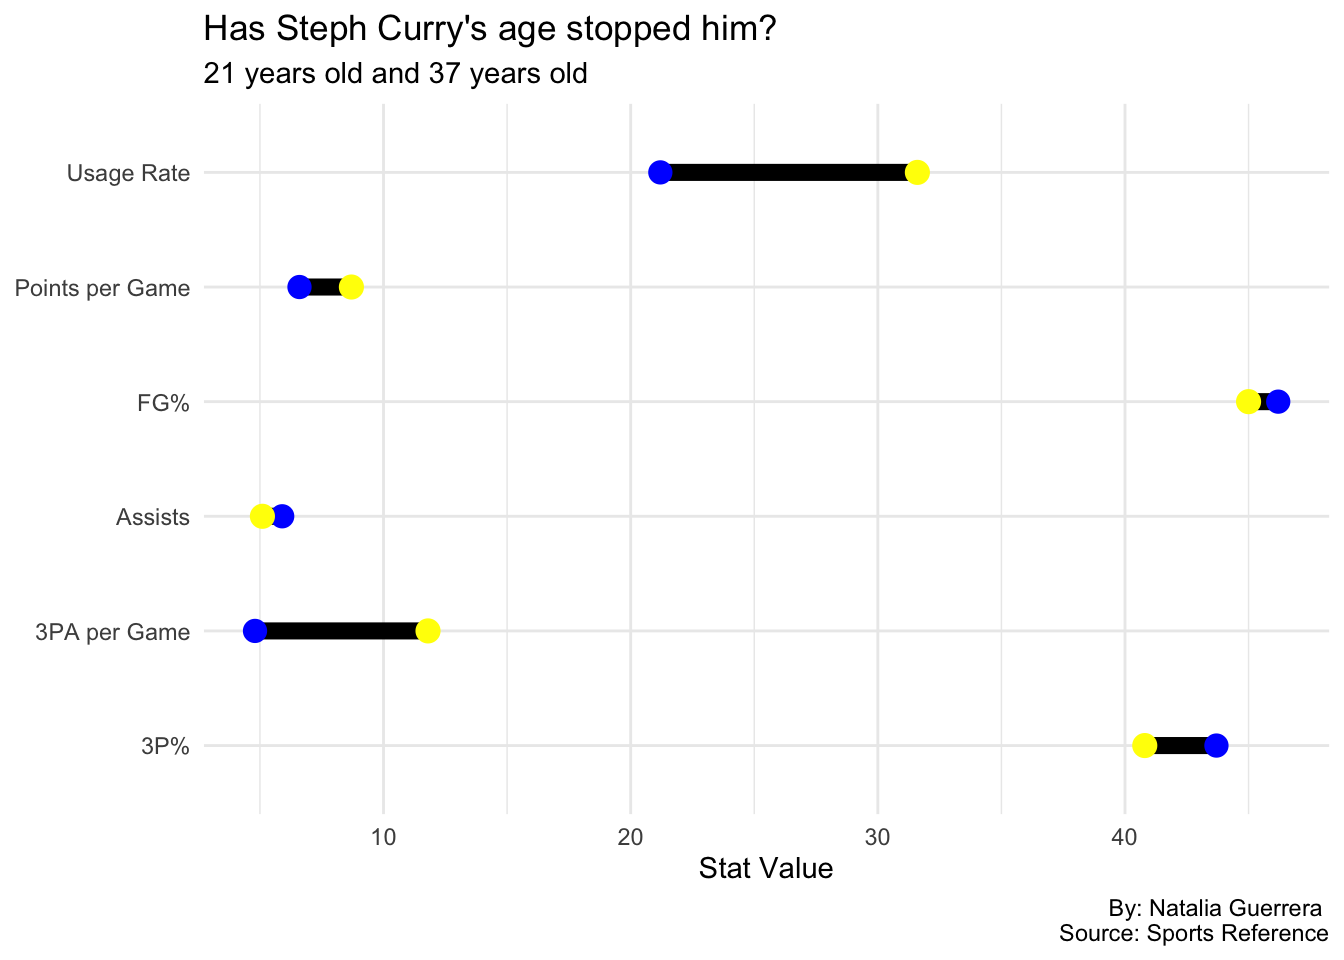
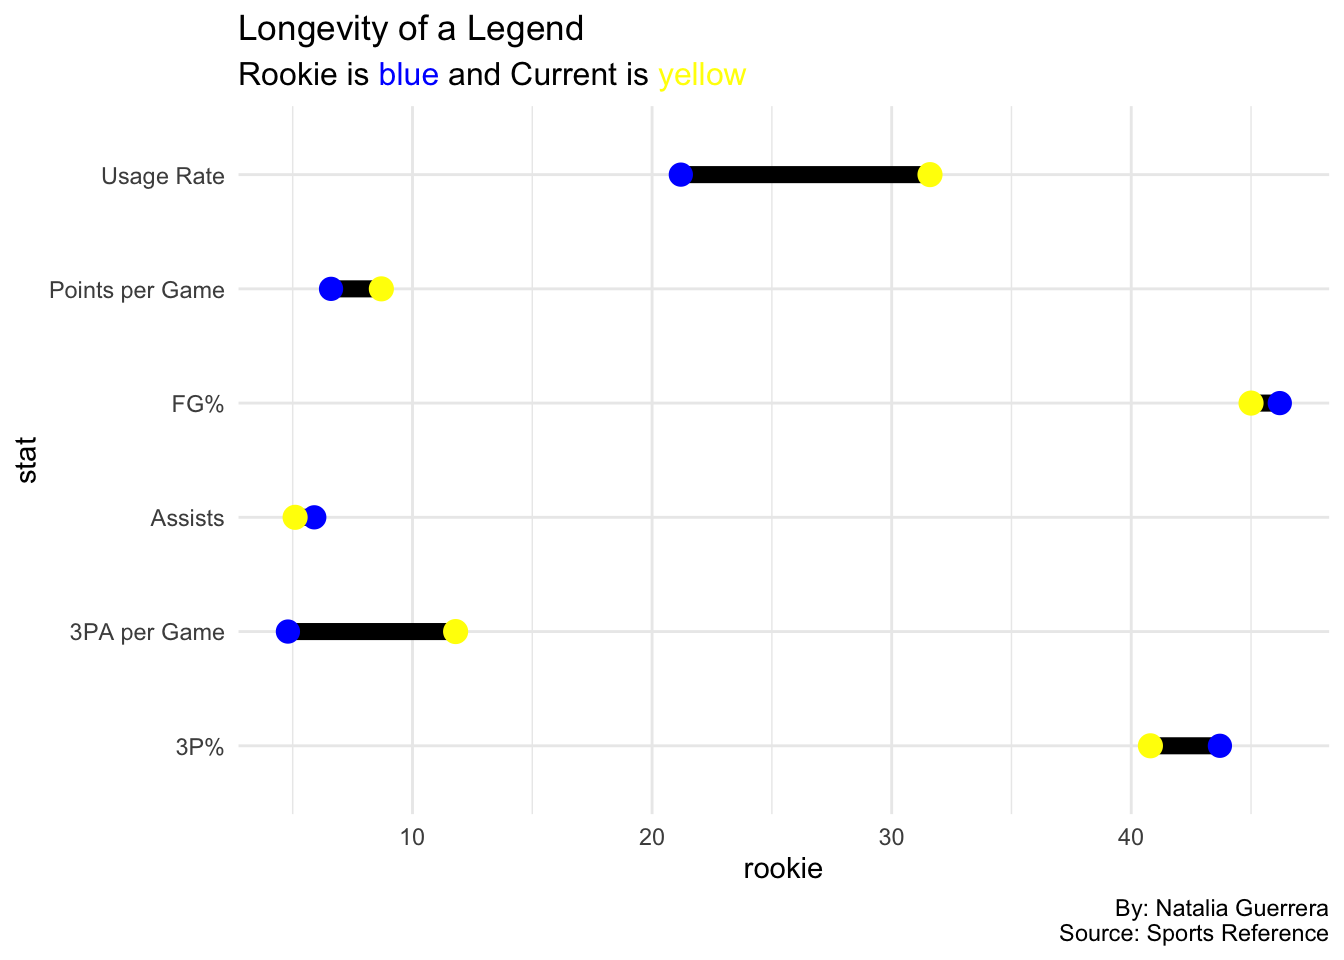
made changes

diff --git a/posts/nfl-nba-combine-athlete/index.html b/posts/nfl-nba-combine-athlete/index.html
@@ -9,7 +9,7 @@
 <meta name="author" content="Natalia Guerrera">
 <meta name="dcterms.date" content="2025-04-13">
 
-<title>How has Steph Curry playing style evolved as he’s aged? – Natalia's Sports Blog</title>
+<title>How much has Stephen Curry’s playing changed as he has aged? – Natalia's Sports Blog</title>
 <style>
 code{white-space: pre-wrap;}
 span.smallcaps{font-variant: small-caps;}
@@ -149,7 +149,7 @@ pre > code.sourceCode > span > a:first-child::before { text-decoration: underlin
 <header id="title-block-header" class="quarto-title-block default page-columns page-full">
   <div class="quarto-title-banner page-columns page-full">
     <div class="quarto-title column-body">
-      <h1 class="title">How has Steph Curry playing style evolved as he’s aged?</h1>
+      <h1 class="title">How much has Stephen Curry’s playing changed as he has aged?</h1>
                                 <div class="quarto-categories">
                 <div class="quarto-category">nba</div>
                 <div class="quarto-category">warriors</div>
@@ -190,7 +190,7 @@ pre > code.sourceCode > span > a:first-child::before { text-decoration: underlin
 
 
 
-<p>Steph Curry has not changed due to his age. Steph Curry is the best.</p>
+<p>Stephen Curry became unstoppable and famous at Davidson College after leading the team in a Cinderella run to the Elite Eight in 2008. After being drafted 7th overall by the Golden State Warriors in 2009, then he ended up transforming the game with his deep shooting and ball handling movements. Curry is a 3-time NBA Champion and 2-time MVP making him the first unanimous MVP in league history. He has become the name and face of the Warriors more than a decade into his career. As he has aged 16 years the question remains, is he still playing at an elite level showing longevity?</p>
 <div class="cell">
 <details class="code-fold">
 <summary>Code</summary>
@@ -205,17 +205,19 @@ pre > code.sourceCode > span > a:first-child::before { text-decoration: underlin
 <span id="cb1-9"><a href="#cb1-9" aria-hidden="true" tabindex="-1"></a>)</span>
 <span id="cb1-10"><a href="#cb1-10" aria-hidden="true" tabindex="-1"></a></span>
 <span id="cb1-11"><a href="#cb1-11" aria-hidden="true" tabindex="-1"></a><span class="fu">ggplot</span>(rookie, <span class="fu">aes</span>(<span class="at">x =</span> rookie, <span class="at">xend =</span> current, <span class="at">y =</span> stat)) <span class="sc">+</span></span>
-<span id="cb1-12"><a href="#cb1-12" aria-hidden="true" tabindex="-1"></a>  <span class="fu">geom_dumbbell</span>(<span class="at">color =</span> <span class="st">"black"</span>, </span>
+<span id="cb1-12"><a href="#cb1-12" aria-hidden="true" tabindex="-1"></a>  <span class="fu">geom_dumbbell</span>(<span class="at">color =</span> <span class="st">"black"</span>,</span>
 <span id="cb1-13"><a href="#cb1-13" aria-hidden="true" tabindex="-1"></a>                <span class="at">size =</span> <span class="dv">3</span>,</span>
-<span id="cb1-14"><a href="#cb1-14" aria-hidden="true" tabindex="-1"></a>                <span class="at">colour_x =</span> <span class="st">"blue"</span>,  </span>
-<span id="cb1-15"><a href="#cb1-15" aria-hidden="true" tabindex="-1"></a>                <span class="at">colour_xend =</span> <span class="st">"yellow"</span>) <span class="sc">+</span>  </span>
-<span id="cb1-16"><a href="#cb1-16" aria-hidden="true" tabindex="-1"></a>  <span class="fu">labs</span>(<span class="at">title =</span> <span class="st">"Has Steph Curry's age stopped him?"</span>,</span>
-<span id="cb1-17"><a href="#cb1-17" aria-hidden="true" tabindex="-1"></a>       <span class="at">subtitle =</span> <span class="st">"21 years old and 37 years old"</span>,</span>
-<span id="cb1-18"><a href="#cb1-18" aria-hidden="true" tabindex="-1"></a>       <span class="at">x =</span> <span class="st">"Stat Value"</span>,</span>
-<span id="cb1-19"><a href="#cb1-19" aria-hidden="true" tabindex="-1"></a>       <span class="at">y =</span> <span class="cn">NULL</span>,</span>
-<span id="cb1-20"><a href="#cb1-20" aria-hidden="true" tabindex="-1"></a>       <span class="at">caption =</span> <span class="st">"By: Natalia Guerrera </span></span>
-<span id="cb1-21"><a href="#cb1-21" aria-hidden="true" tabindex="-1"></a><span class="st">       Source: Sports Reference"</span>) <span class="sc">+</span></span>
-<span id="cb1-22"><a href="#cb1-22" aria-hidden="true" tabindex="-1"></a>  <span class="fu">theme_minimal</span>()</span></code><button title="Copy to Clipboard" class="code-copy-button"><i class="bi"></i></button></pre></div>
+<span id="cb1-14"><a href="#cb1-14" aria-hidden="true" tabindex="-1"></a>                <span class="at">colour_x =</span> <span class="st">"blue"</span>,</span>
+<span id="cb1-15"><a href="#cb1-15" aria-hidden="true" tabindex="-1"></a>                <span class="at">colour_xend =</span> <span class="st">"yellow"</span>) <span class="sc">+</span></span>
+<span id="cb1-16"><a href="#cb1-16" aria-hidden="true" tabindex="-1"></a>  <span class="fu">labs</span>(</span>
+<span id="cb1-17"><a href="#cb1-17" aria-hidden="true" tabindex="-1"></a>    <span class="at">title =</span> <span class="st">"Longevity of a Legend"</span>,</span>
+<span id="cb1-18"><a href="#cb1-18" aria-hidden="true" tabindex="-1"></a>    <span class="at">subtitle =</span> <span class="st">"Rookie is &lt;span style='color:blue;'&gt;blue&lt;/span&gt; and Current is &lt;span style='color:yellow;'&gt;yellow&lt;/span&gt; "</span>,</span>
+<span id="cb1-19"><a href="#cb1-19" aria-hidden="true" tabindex="-1"></a>    <span class="at">caption =</span> <span class="st">"By: Natalia Guerrera</span><span class="sc">\n</span><span class="st">Source: Sports Reference"</span></span>
+<span id="cb1-20"><a href="#cb1-20" aria-hidden="true" tabindex="-1"></a>  ) <span class="sc">+</span></span>
+<span id="cb1-21"><a href="#cb1-21" aria-hidden="true" tabindex="-1"></a>  <span class="fu">theme_minimal</span>() <span class="sc">+</span></span>
+<span id="cb1-22"><a href="#cb1-22" aria-hidden="true" tabindex="-1"></a>  <span class="fu">theme</span>(</span>
+<span id="cb1-23"><a href="#cb1-23" aria-hidden="true" tabindex="-1"></a>    <span class="at">plot.subtitle =</span> <span class="fu">element_markdown</span>(<span class="at">size =</span> <span class="dv">12</span>)   </span>
+<span id="cb1-24"><a href="#cb1-24" aria-hidden="true" tabindex="-1"></a>  )</span></code><button title="Copy to Clipboard" class="code-copy-button"><i class="bi"></i></button></pre></div>
 </details>
 <div class="cell-output-display">
 <div>
@@ -225,6 +227,7 @@ pre > code.sourceCode > span > a:first-child::before { text-decoration: underlin
 </div>
 </div>
 </div>
+<p>At 21, we see his scoring and passing ability are clear indicators of the impact he was going to have in the future. As he reached 37 his usage rate remains high, the way he impacts the game shifts. He maintains his scoring, his three-point attempts have increased significantly and he is still extremely accurate. We see Curry’s adaptation which further has extended his prime.</p>
 <div class="cell">
 <details class="code-fold">
 <summary>Code</summary>
@@ -239,14 +242,23 @@ pre > code.sourceCode > span > a:first-child::before { text-decoration: underlin
 <span id="cb2-9"><a href="#cb2-9" aria-hidden="true" tabindex="-1"></a></span>
 <span id="cb2-10"><a href="#cb2-10" aria-hidden="true" tabindex="-1"></a>rookie_waffle <span class="ot">&lt;-</span> <span class="fu">waffle</span>(rookie, <span class="at">rows =</span> <span class="dv">10</span>, </span>
 <span id="cb2-11"><a href="#cb2-11" aria-hidden="true" tabindex="-1"></a>                        <span class="at">colors =</span> <span class="fu">c</span>(<span class="st">"red"</span>, <span class="st">"orange"</span>, <span class="st">"darkgreen"</span>),</span>
-<span id="cb2-12"><a href="#cb2-12" aria-hidden="true" tabindex="-1"></a>                        <span class="at">title =</span> <span class="st">"Rookie Season (2009–10)"</span>)</span>
+<span id="cb2-12"><a href="#cb2-12" aria-hidden="true" tabindex="-1"></a>                        <span class="at">title =</span> <span class="st">"Young Sharpshooter"</span>)</span>
 <span id="cb2-13"><a href="#cb2-13" aria-hidden="true" tabindex="-1"></a></span>
 <span id="cb2-14"><a href="#cb2-14" aria-hidden="true" tabindex="-1"></a>current_waffle <span class="ot">&lt;-</span> <span class="fu">waffle</span>(current, <span class="at">rows =</span> <span class="dv">10</span>, </span>
 <span id="cb2-15"><a href="#cb2-15" aria-hidden="true" tabindex="-1"></a>                         <span class="at">colors =</span> <span class="fu">c</span>(<span class="st">"red"</span>, <span class="st">"orange"</span>, <span class="st">"darkgreen"</span>),</span>
-<span id="cb2-16"><a href="#cb2-16" aria-hidden="true" tabindex="-1"></a>                         <span class="at">title =</span> <span class="st">"2023–24 Season"</span>)</span>
-<span id="cb2-17"><a href="#cb2-17" aria-hidden="true" tabindex="-1"></a></span>
-<span id="cb2-18"><a href="#cb2-18" aria-hidden="true" tabindex="-1"></a></span>
-<span id="cb2-19"><a href="#cb2-19" aria-hidden="true" tabindex="-1"></a>rookie_waffle <span class="sc">+</span> current_waffle</span></code><button title="Copy to Clipboard" class="code-copy-button"><i class="bi"></i></button></pre></div>
+<span id="cb2-16"><a href="#cb2-16" aria-hidden="true" tabindex="-1"></a>                         <span class="at">title =</span> <span class="st">"2023–24 Season"</span>) <span class="sc">+</span></span>
+<span id="cb2-17"><a href="#cb2-17" aria-hidden="true" tabindex="-1"></a>   <span class="fu">labs</span>(<span class="at">title =</span> <span class="st">"More Shots, Still Sharp"</span>,</span>
+<span id="cb2-18"><a href="#cb2-18" aria-hidden="true" tabindex="-1"></a>       <span class="at">subtitle =</span> <span class="st">"2023-24"</span>,</span>
+<span id="cb2-19"><a href="#cb2-19" aria-hidden="true" tabindex="-1"></a>       <span class="at">x =</span> <span class="st">"Stat"</span>,</span>
+<span id="cb2-20"><a href="#cb2-20" aria-hidden="true" tabindex="-1"></a>       <span class="at">y =</span> <span class="cn">NULL</span>,</span>
+<span id="cb2-21"><a href="#cb2-21" aria-hidden="true" tabindex="-1"></a>       <span class="at">caption =</span> </span>
+<span id="cb2-22"><a href="#cb2-22" aria-hidden="true" tabindex="-1"></a>       </span>
+<span id="cb2-23"><a href="#cb2-23" aria-hidden="true" tabindex="-1"></a>       </span>
+<span id="cb2-24"><a href="#cb2-24" aria-hidden="true" tabindex="-1"></a>       <span class="st">"By: Natalia Guerrera </span></span>
+<span id="cb2-25"><a href="#cb2-25" aria-hidden="true" tabindex="-1"></a><span class="st">       Source: Sports Reference"</span>)</span>
+<span id="cb2-26"><a href="#cb2-26" aria-hidden="true" tabindex="-1"></a></span>
+<span id="cb2-27"><a href="#cb2-27" aria-hidden="true" tabindex="-1"></a></span>
+<span id="cb2-28"><a href="#cb2-28" aria-hidden="true" tabindex="-1"></a>rookie_waffle <span class="sc">+</span> current_waffle</span></code><button title="Copy to Clipboard" class="code-copy-button"><i class="bi"></i></button></pre></div>
 </details>
 <div class="cell-output-display">
 <div>
@@ -256,6 +268,7 @@ pre > code.sourceCode > span > a:first-child::before { text-decoration: underlin
 </div>
 </div>
 </div>
+<p>These percentages show how he has been so consistent and not declining. Curry’s three-point accuracy dipped slightly when doubling his attempts, and his free-throw percentage improved a tribute to his work ethic and discipline.</p>
 <div class="cell">
 <details class="code-fold">
 <summary>Code</summary>
@@ -288,6 +301,9 @@ pre > code.sourceCode > span > a:first-child::before { text-decoration: underlin
 </div>
 </div>
 </div>
+<p>Curry attempted fewer than 400 threes but knocked them down at 43.7% in his rookie season. Now, this past season he attempted just under 800 threes, but still maintained an impressive 40.8% accuracy.</p>
+<p>This proves that efficiency does not have to drop off with increased usage, proving further Steph is and always will be an elite player.</p>
+<p>So… how has Curry’s playing styling evolved as he aged? While he is not his same youthful self even after aging 16 years he is still a dominant force in the NBA. His long range shooting as inspired so many other players to improve their shooting depth. The unique shots and plays he creates makes him hard to defend. Stephen Curry’s sustained elite performance over 16 years is a testament to his exceptional skill, unwavering work ethic, and intelligent evolution as a player. He is not just an elite player of the past; he remains an elite player in the present, showcasing remarkable longevity at the highest level of the game.</p>
 
 
 

diff --git a/index.html b/index.html
@@ -205,7 +205,7 @@ window.Quarto = {
 
 <div class="quarto-listing quarto-listing-container-default" id="listing-listing">
 <div class="list quarto-listing-default">
-<div class="quarto-post image-right" data-index="0" data-categories="nba,warriors,athlete" data-listing-date-sort="1744520400000" data-listing-file-modified-sort="1744664261814" data-listing-date-modified-sort="NaN" data-listing-reading-time-sort="3" data-listing-word-count-sort="463">
+<div class="quarto-post image-right" data-index="0" data-categories="nba,warriors,athlete" data-listing-date-sort="1744520400000" data-listing-file-modified-sort="1744688575828" data-listing-date-modified-sort="NaN" data-listing-reading-time-sort="5" data-listing-word-count-sort="880">
 <div class="thumbnail">
 <p><a href="./posts/nfl-nba-combine-athlete/index.html" class="no-external"></a></p><a href="./posts/nfl-nba-combine-athlete/index.html" class="no-external">
 <p><img loading="lazy" src="./posts/nfl-nba-combine-athlete/image.png" class="thumbnail-image"></p>
@@ -213,7 +213,7 @@ window.Quarto = {
 </div>
 <div class="body">
 <h3 class="no-anchor listing-title">
-<a href="./posts/nfl-nba-combine-athlete/index.html" class="no-external">How has Steph Curry playing style evolved as he’s aged?</a>
+<a href="./posts/nfl-nba-combine-athlete/index.html" class="no-external">How much has Stephen Curry’s playing changed as he has aged?</a>
 </h3>
 <div class="listing-subtitle">
 <a href="./posts/nfl-nba-combine-athlete/index.html" class="no-external"></a>
@@ -230,7 +230,7 @@ athlete
 </div>
 </div>
 <div class="listing-description">
-<a href="./posts/nfl-nba-combine-athlete/index.html" class="no-external">Steph Curry has not changed due to his age. Steph Curry is the best.</a>
+<a href="./posts/nfl-nba-combine-athlete/index.html" class="no-external">Stephen Curry became unstoppable and famous at Davidson College after leading the team in a Cinderella run to the Elite Eight in 2008. After being drafted 7th overall by the…</a>
 </div>
 </div>
 <div class="metadata">
